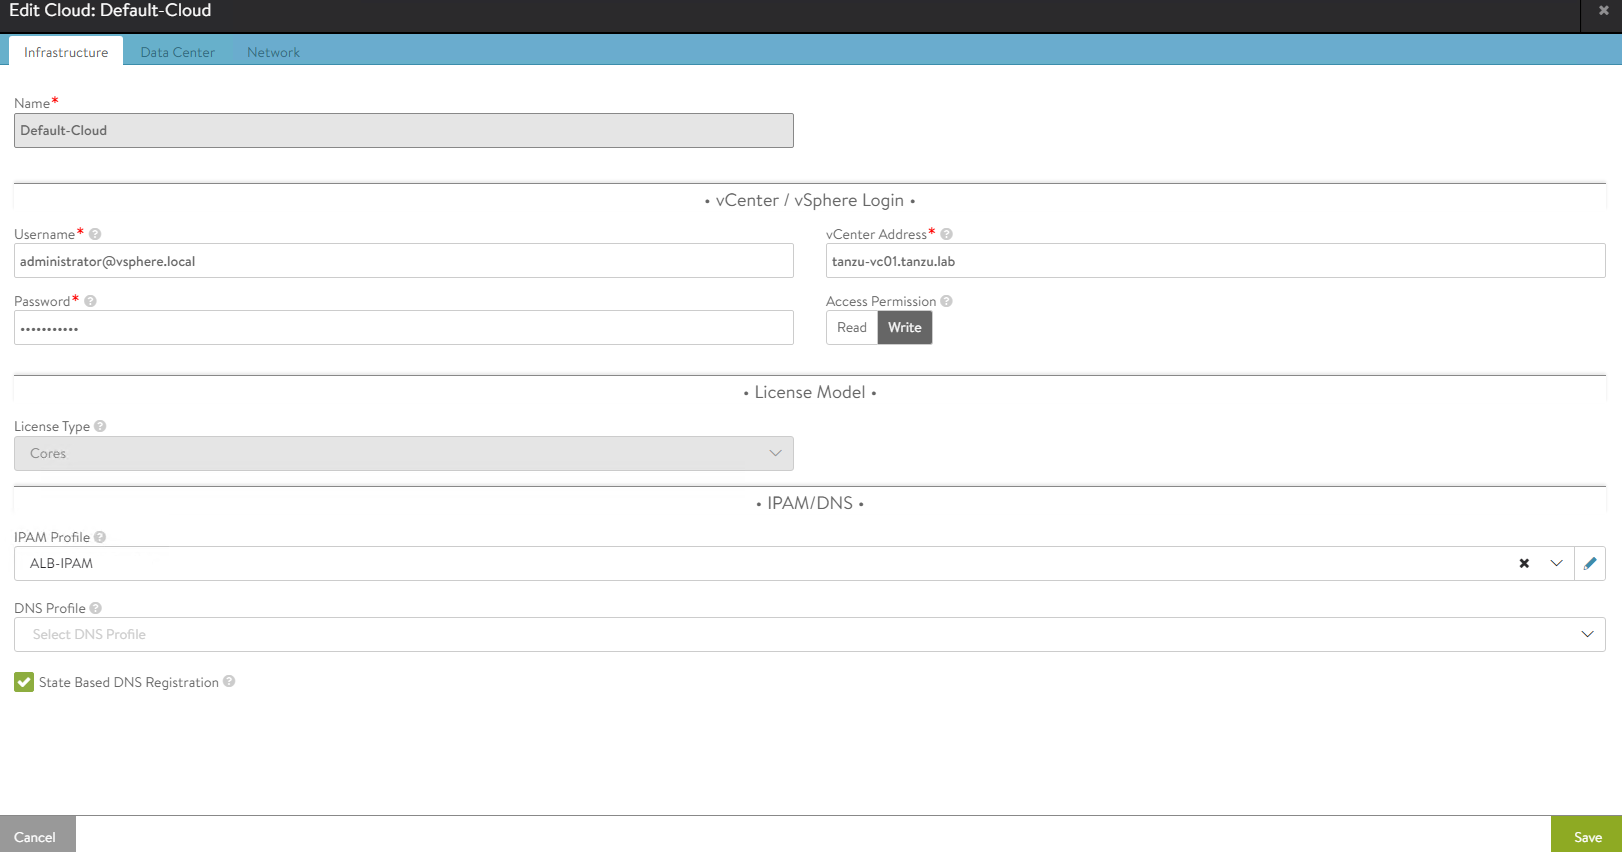
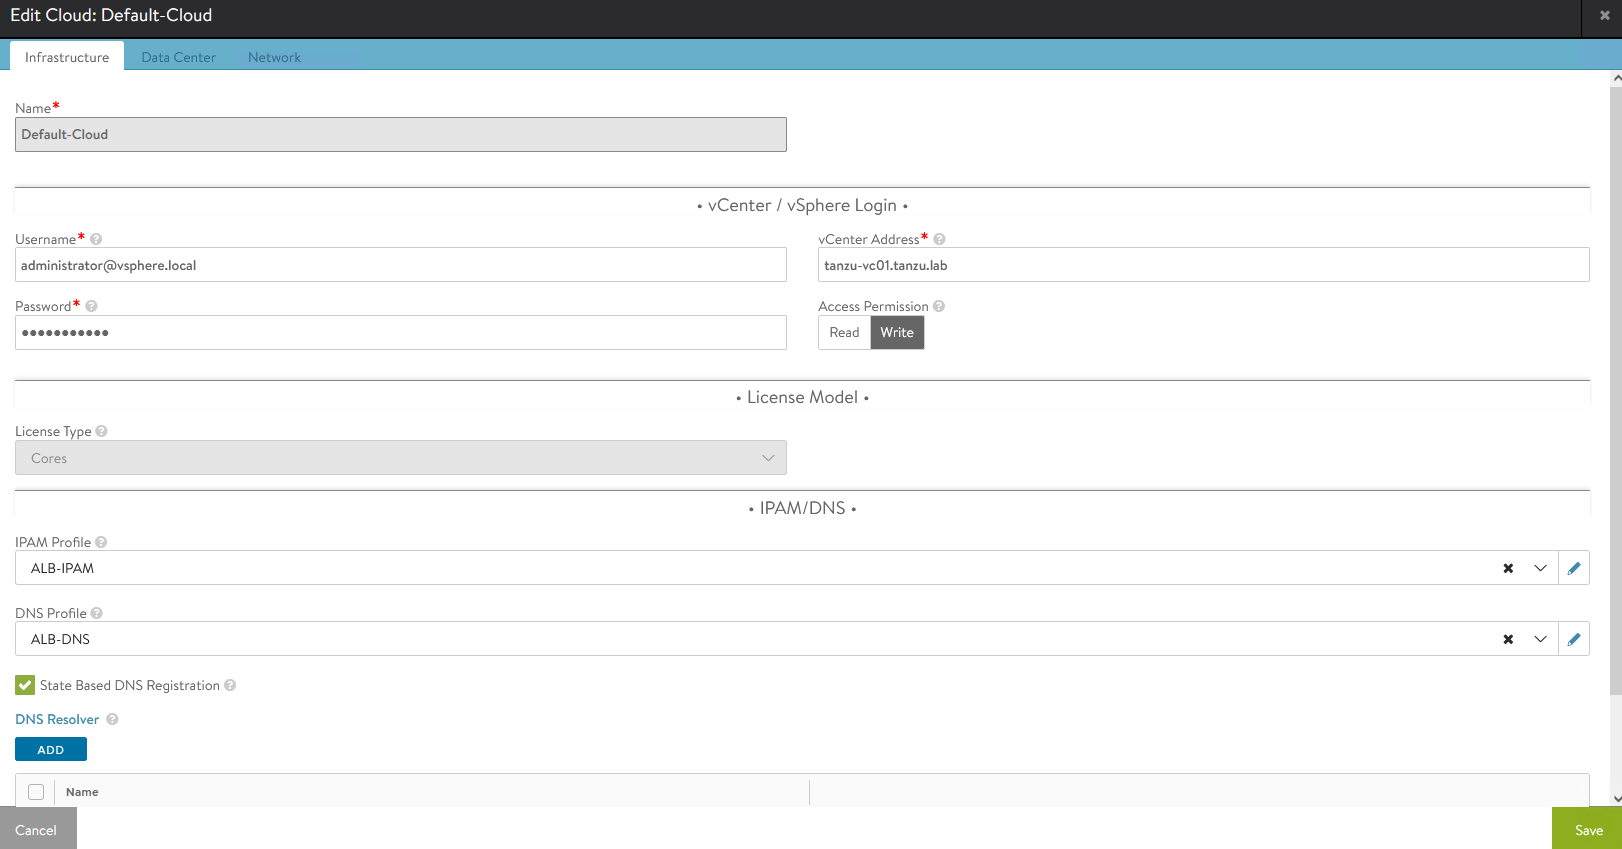
TKO on vSphere with Tanzu deploy Guide 2.0 (#212)
* Adding tko-vwt-dg 2.0

* Incorporated IX Team review

* removed vyos config from deploy guide

diff --git a/src/deployment-guides/tko-on-vsphere-with-tanzu.md b/src/deployment-guides/tko-on-vsphere-with-tanzu.md
@@ -85,12 +85,16 @@ For a production-grade deployment, VMware recommends deploying three instances o
 
 The following table provides a sample IP address and FQDN set for the NSX Advanced Load Balancer controllers:
 
-| Controller Node    | IP Address   | FQDN                   |
-| ------------------ | ------------ | ---------------------- |
+<!-- /* cSpell:disable */ -->
+
+| Controller Node    | IP Address  | FQDN            |
+| ------------------ | ------------| ----------------|
 | Node01 (Primary)   | 172.16.80.3 | alb01.tanzu.lab |
 | Node02 (Secondary) | 172.16.80.4 | alb02.tanzu.lab |
 | Node03 (Secondary) | 172.16.80.5 | alb03.tanzu.lab |
 | Controller Cluster | 172.16.80.2 | alb.tanzu.lab   |
+
+<!-- /* cSpell:enable */ -->
 
 ### Deploy NSX Advance Load Balancer Controller Node
 
@@ -140,7 +144,7 @@ On a browser, go to https://<https://<alb-ctlr01.tanzu.lab>/.
 
 5. Click on **Save** to finish the post-deployment configuration wizard.
 
-   If you did not select the **Setup Cloud After** option <_I don't see this option_> before saving, the initial configuration wizard exits. The Cloud configuration window does not automatically launch and you are directed to a Dashboard view on the controller.
+If you did not select the **Setup Cloud After** option before saving, the initial configuration wizard exits. The Cloud configuration window does not automatically launch and you are directed to a Dashboard view on the controller.
 
 ### Configure Default-Cloud
 
@@ -172,7 +176,7 @@ On a browser, go to https://<https://<alb-ctlr01.tanzu.lab>/.
 
     ![Screenshot of Data Center tab on Edit Cloud screen](img/tko-on-vsphere-with-tanzu/TKO-VWT09.png)
 
-1. Configure the **Network** settings as follows:
+11. Configure the **Network** settings as follows:
 
    - Select the NSX ALB **Management Network**. This network interface is used by the Service Engines to connect with the controller.
    - Leave the **Template Service Engine Group** empty.
@@ -187,7 +191,7 @@ On a browser, go to https://<https://<alb-ctlr01.tanzu.lab>/.
 
 ## Configure Licensing.
 
-  Tanzu for Kubernetes Operations requires an NSX Advanced Load Balancer Enterprise license. To configure licensing, navigate to the **Administration > Settings > Licensing** and apply the license key. If you have a license file instead of a license key, click the **Upload from Computer** link.
+Tanzu for Kubernetes Operations requires an NSX Advanced Load Balancer Enterprise license. To configure licensing, navigate to the **Administration > Settings > Licensing** and apply the license key. If you have a license file instead of a license key, click the **Upload from Computer** link.
 
   ![Screenshot of Licensing tab](img/tko-on-vsphere-with-tanzu/TKO-VWT12.png)
 
@@ -242,13 +246,12 @@ You are automatically logged out of the controller node you are currently logged
    ![Screenshot of Controller Initializing screen](img/tko-on-vsphere-with-tanzu/TKO-VWT18.png)
 
 The first controller of the cluster receives the "Leader" role. The second and third controllers will work as "Follower".
-<_The following image file is missing in the repo._>
 
-   ![](img/tko-on-vsphere-with-tanzu/TKO-VWT19.png)
+   ![Controller Role](img/tko-on-vsphere-with-tanzu/TKO-VWT19.png)
 
 After the controller cluster is deployed, use the controller cluster IP address for doing any additional configuration. Do not use the individual controller node IP address.
 
-For additional product documentation, see [Deploy a Controller Cluster](https://docs.vmware.com/en/VMware-vSphere/7.0/vmware-vsphere-with-tanzu/GUID-A51FAF35-D604-4883-A93D-58463B404C4E.html).
+  For additional product documentation, see [Deploy a Controller Cluster](https://docs.vmware.com/en/VMware-vSphere/7.0/vmware-vsphere-with-tanzu/GUID-A51FAF35-D604-4883-A93D-58463B404C4E.html).
 
 ### Change NSX Advanced Load Balancer Portal Default Certificate
 
@@ -280,7 +283,7 @@ To add a self-signed certificate:
 
 2. Click **Save**.
 
-    ![](img/tko-on-vsphere-with-tanzu/TKO-VWT21.png)
+    ![Controller New Certificate](img/tko-on-vsphere-with-tanzu/TKO-VWT21.png)
 
 3. Change the NSX Advanced Load Balancer portal certificate.
 
@@ -340,7 +343,7 @@ To configure the VIP network:
 
    ![Screenshot of Edit Network Settings screen](img/tko-on-vsphere-with-tanzu/TKO-VWT23.png)
 
-1. Click **Save** to close the VIP network configuration wizard.
+6. Click **Save** to close the VIP network configuration wizard.
 
 For more information, see the product documentation [Configure a Virtual IP Network](https://docs.vmware.com/en/VMware-vSphere/7.0/vmware-vsphere-with-tanzu/GUID-29ACB562-2E80-4C28-AE63-8EB9DAF1A67F.html).
 
@@ -366,13 +369,13 @@ To configure the default gateway:
 
 For additional product documentation, see [Configure Default Gateway](https://docs.vmware.com/en/VMware-vSphere/7.0/vmware-vsphere-with-tanzu/GUID-AB96BE48-D5B3-4B88-A92E-5A083472C56D.html)
 
-### Configure IPAM
+### Configure IPAM and DNS Profile
 
 IPAM is required to allocate virtual IP addresses when virtual services get created. Configure IPAM for the NSX Advanced Load Balancer controller and assign it to the Default-Cloud.
 
 1. Navigate to the **Templates > Profiles > IPAM/DNS Profiles**.
 
-1. Click **Create** and select **IPAM Profile** from the dropdown menu.
+2. Click **Create** and select **IPAM Profile** from the dropdown menu.
 
   ![Screenshot of the IPAM/DNS Profiles tab](img/tko-on-vsphere-with-tanzu/TKO-VWT26.png)
 
@@ -389,17 +392,26 @@ IPAM is required to allocate virtual IP addresses when virtual services get crea
 
    ![Screenshot of New IPAM/DNS Profile screen](img/tko-on-vsphere-with-tanzu/TKO-VWT27.png)
 
-1. Click **Save**.
+5. Click **Save**.
+ 
+6. Click on the Create button again and select DNS Profile
 
-1. Assign the IPAM profile to the Default-Cloud configuration.
+   - Provide a name for the profile.
+   - Add your domain name under **Domain Name**
+   - (Optionally) set the TTL for the domain.
+
+   ![DNS Profile](img/tko-on-vsphere-with-tanzu/TKO-VWT27-1.jpg)
+
+7. Assign the IPAM and DNS profile to the Default-Cloud configuration.
     - Navigate to the **Infrastructure > Cloud**
     - Edit the **Default-Cloud** configuration as follows:
        -  **IPAM Profile**: Select the newly created profile.
+       -  **DNS Profile**: Select the newly created profile.
     - Click **Save**
 
    ![Screenshot of Edit Cloud window](img/tko-on-vsphere-with-tanzu/TKO-VWT28.png)
 
-2. Verify that the status of the Default-Cloud configuration is green.
+8. Verify that the status of the Default-Cloud configuration is green.
 
 For additional product documentation, see [Configure IPAM](https://docs.vmware.com/en/VMware-vSphere/7.0/vmware-vsphere-with-tanzu/GUID-6ECC7035-BC0C-4197-A3DF-E92365A95A9F.html).
 
@@ -464,11 +476,11 @@ To deploy the Supervisor Cluster:
 
 7. Click **Next**.   
 
-8. On the **Workload Network** screen, select the network <_I don't see this option on the screenshot_> that will handle the networking traffic for Kubernetes workloads running on the Supervisor cluster.
+8. On the **Workload Network** screen, select the network that will handle the networking traffic for Kubernetes workloads running on the Supervisor cluster.
 
     - Set the **Network Mode**  to **DHCP** if the port group is configured for DHCP.
 
-     ![Screenshot of the Workload Network screen](img/tko-on-vsphere-with-tanzu/TKO-VWT35.png)
+   ![Screenshot of the Workload Network screen](img/tko-on-vsphere-with-tanzu/TKO-VWT35.png)
 
 9. Click **Next**.   
 
@@ -486,7 +498,7 @@ The Workload Management task takes approximately 30 minutes to complete. After t
 
 The Supervisor Cluster gets an IP address from the VIP network that you configured in the NSX Advanced Load Balancer. This IP address is also called the Control Plane HA IP address.
 
-![Screenshot of the Workload Clusters screen](img/tko-on-vsphere-with-tanzu/TKO-VWT38.png)
+   ![Screenshot of the Workload Clusters screen](img/tko-on-vsphere-with-tanzu/TKO-VWT38.png)
 
 In the backend, three supervisor Control Plane VMs are deployed in the vSphere namespace. A Virtual Service is created in the NSX Advanced Load Balancer with three Supervisor Control Plane nodes that are deployed in the process.
 
@@ -544,9 +556,7 @@ To create a new Supervisor namespace:
 
    **Note:** The **Name** field accepts only lower case letters and hyphens.
 
-1. Click **Create**.
-
-	The namespace is created on the Supervisor Cluster.
+6. Click **Create**. The namespace is created on the Supervisor Cluster.
 
    ![Screenshot of the Create Namespace screen](img/tko-on-vsphere-with-tanzu/TKO-VWT40.png)
 
@@ -608,128 +618,7 @@ To add a VM class to a namespace,
 
 The namespace is fully configured now. You are ready to register your supervisor cluster with Tanzu Mission Control and deploy your first Tanzu Kubernetes Cluster.
 
-## <a id=prepare-deploy-workload-cluster> </a> Prepare to Deploy Tanzu Kubernetes Clusters (Workload Cluster)
-
-Tanzu Kubernetes Clusters are created by invoking the Tanzu Kubernetes Grid Service declarative API using kubectl and a cluster specification defined using YAML. After you provision a cluster, you operate it and deploy workloads to it using kubectl.
-
-Before you construct a YAML file for Tanzu Kubernetes Cluster deployment, gather information such as virtual machine class bindings, storage class, and the available Tanzu Kubernetes release that can be used.
-
-You can gather this information by running the following commands:
-
-1. Connect to the Supervisor Cluster using vSphere Plugin for kubectl.
-
-   `kubectl vsphere login --server=<Supervisor Cluster Control Plane VIP> --vsphere-username USERNAME`
-
-1. Switch context to the vSphere Namespace where you plan to provision the Tanzu Kubernetes cluster.
-
-   `kubectl config get-contexts`
-
-   `kubectl config use-context <vSphere-Namespace>`
-
-   Example: **kubectl config use-context prod**
-
-1. List the available virtual machine class bindings
-
-   `kubectl get virtualmachineclassbindings`
-
-   The output of the command list all VM class bindings that are available in the vSphere Namespace where you are deploying the Tanzu Kubernetes Cluster.
-
-   ![](./img/tko-on-vsphere-with-tanzu/image20.jpg)
-
-1. List the available storage class in the namespace.
-
-   `kubectl get storageclass`
-
-   The output of the command list all storage classes that are available in the vSphere Namespace.
-
-   ![](./img/tko-on-vsphere-with-tanzu/image50.jpg)
-
-1. List the available Tanzu Kubernetes releases (TKR)
-
-   `kubectl get tanzukubernetesreleases`
-
-   The command's output lists the TKR versions that are available in the vSphere Namespace. You can only deploy Tanzu Kubernetes Cluster with TKR versions that have compatible=true.
-
-   ![](./img/tko-on-vsphere-with-tanzu/image52.jpg)
-
-1. Construct the YAML file for provisioning a Tanzu Kubernetes cluster.
-
-  Tanzu Kubernetes Clusters can be deployed using Tanzu Kubernetes Grid Service API. There are 2 versions of the API that you can use:
-
-   - [Tanzu Kubernetes Grid Service v1alpha2 API](https://docs.vmware.com/en/VMware-vSphere/7.0/vmware-vsphere-with-tanzu/GUID-0CA8BF39-0D7E-4335-9D5B-7C80ED90D4D8.html)
-   - [Tanzu Kubernetes Grid Service v1alpha1 API](https://docs.vmware.com/en/VMware-vSphere/7.0/vmware-vsphere-with-tanzu/GUID-BD132505-263E-40CF-82D4-B759C491AD23.html)
-
-   This documentation makes use of v1alpha2 API to provision the Tanzu Kubernetes Clusters.
-
-   The following example YAML is the minimal configuration required to provision a Tanzu Kubernetes cluster.
-
-   ```yaml
-  apiVersion: run.tanzu.vmware.com/v1alpha2
-  kind: TanzuKubernetesCluster
-  metadata:
-    name: prod-1
-    namespace: prod
-  spec:
-    topology:
-      controlPlane:
-        replicas: 3
-        vmClass: best-effort-large # or the VM class binding you'd like to use.
-        storageClass: vsan-default-storage-policy # or the storage class you'd like to use.
-        tkr:
-          reference:
-          name: v1.21.2---vmware.1-tkg.1.ee25d55
-      nodePools:
-       - name: worker-pool01
-         replicas: 6
-         vmClass: best-effort-large # or the VM class binding you'd like to use.
-         storageClass: vsan-default-storage-policy # or the storage class you'd like to use.
-         tkr:
-           reference:
-             name: v1.21.2---vmware.1-tkg.1.ee25d55
-  ```
-
-  > ⚠  If you receive `this request is invalid` after applying this YAML with
-  > `kubectl apply`, ensure that your TKr release, virtual machine class, and
-  > storage class are valid.
-
-  > ⚠  If you receive `this request is invalid` after applying this YAML with
-  > `kubectl apply`, ensure that your TKr release, virtual machine class, and
-  > storage class are valid.
-
-## <a id=deploy-workload-cluster> </a>Deploy Tanzu Kubernetes Clusters (Workload Cluster)
-1. Customize the cluster as needed by referring to the full list of [cluster configuration parameters](https://docs.vmware.com/en/VMware-vSphere/7.0/vmware-vsphere-with-tanzu/GUID-31BF8166-5FC8-4D43-933D-5797F3BE4A36.html)
-
-1. To deploy the cluster, run the command:
-
-   `kubectl apply -f <name>.yaml`
-
-1. Monitor the deployment of cluster using the command:
-
-   `kubectl get tanzukubernetesclusters`
-
-   Sample result:
-
-   ![](./img/tko-on-vsphere-with-tanzu/image73.jpg)
-
-   You can also review the status of the cluster from vSphere Client by clicking on the namespace where the cluster is deployed and navigating to **Compute > VMware Resources > Tanzu Kubernetes Clusters**.
-
-   ![](./img/tko-on-vsphere-with-tanzu/image26.jpg)
-
-   The **Virtual Machines** tab displays the list of the control plane and worker nodes that are deployed during the cluster creation.
-
-   ![](./img/tko-on-vsphere-with-tanzu/image10.jpg)
-
-   For the Control-Plane HA, a virtual service is created in NSX Advanced Load Balancer with the pool members as the three control plane nodes that got deployed during the cluster creation.
-
-   ![](./img/tko-on-vsphere-with-tanzu/image33.jpg)
-
-For additional product documentation, see [Configuring and Managing vSphere Namespaces](https://docs.vmware.com/en/VMware-vSphere/7.0/vmware-vsphere-with-tanzu/GUID-1544C9FE-0B23-434E-B823-C59EFC2F7309.html).   
-
-## <a id=integrate-saas> </a> Integrate Tanzu Kubernetes Clusters with SaaS Endpoints
-
-By integrating Supervisor Cluster and Tanzu Kubernetes Clusters with Tanzu Mission Control (TMC) you are provided a centralized administrative interface that enables you to manage your global portfolio of Kubernetes clusters.
-
-### Tanzu Mission Control
+## <a id=integrate-supervisor-tmc> </a> **Register Supervisor Cluster with Tanzu Mission Control**
 
 Tanzu Mission Control is a centralized management platform for consistently operating and securing your Kubernetes infrastructure and modern applications across multiple teams and clouds.
 
@@ -797,6 +686,14 @@ For additional product documentation, see [Integrate the Tanzu Kubernetes Grid S
 
 After Supervisor Cluster is registered with Tanzu Mission Control, deployment of the Tanzu Kubernetes clusters can be done in just a few clicks. The procedure for creating Tanzu Kubernetes clusters is shown below.
 
+Tanzu Kubernetes Clusters come with a `vmware-system-privileged`
+`PodSecurityPolicy` (PSP) that prevents `Pod`s from being scheduled except by service
+accounts that are bound to this PSP by way of a namespaced `RoleBinding` or a
+cluster-wide `ClusterRoleBinding`. Tanzu Mission Control allows you to create
+service accounts for packages installed through it. However, because these
+accounts are not bound to this PSP, `Pod`s provisioned by these packages never
+get scheduled, causing TMC to time out during the installation.
+
 Step 1: Navigate to the **Clusters** tab and click **Create Cluster**.
 
 ![Screenshot of Step 1: Creating a cluster](img/tko-on-vsphere-with-tanzu/TKO-VWT56.png)
@@ -804,7 +701,6 @@ Step 1: Navigate to the **Clusters** tab and click **Create Cluster**.
   1. Under the **Create cluster** page, select the Supervisor cluster that you registered in the previous step and click on Continue to create cluster.
 
 ![Screenshot of Create cluster screen](img/tko-on-vsphere-with-tanzu/TKO-VWT57.png)
-<_I changed the following because the steps in the document should correspond to the screenshots_>
 
 2. Select the provisioner for creating the workload cluster. Provisioner reflects the vSphere namespaces that you have created and associated with the Supervisor cluster.
 
@@ -853,29 +749,23 @@ Step 5: Edit and add node pools.
 
 ![Step 5: Edit and add node pools](img/tko-on-vsphere-with-tanzu/TKO-VWT62.png)
 
-Tanzu Kubernetes Clusters come with a `vmware-system-privileged`
-`PodSecurityPolicy` (PSP) that prevents `Pod`s from being scheduled except by service
-accounts that are bound to this PSP by way of a namespaced `RoleBinding` or a
-cluster-wide `ClusterRoleBinding`. Tanzu Mission Control allows you to create
-service accounts for packages installed through it. However, because these
-accounts are not bound to this PSP, `Pod`s provisioned by these packages never
-get scheduled, causing TMC to time out during the installation.
+Cluster creation roughly takes 15-20 minutes to complete. After the cluster deployment completes, ensure that Agent and extensions health shows green.
 
 ![Health screen for agent and extensions](img/tko-on-vsphere-with-tanzu/TKO-VWT63.png)
-
-## <a id=integrate-to> </a> Integrate Tanzu Kubernetes clusters with Tanzu Observability
-
-For instructions on enabling Tanzu Observability on your workload cluster, please see [Set up Tanzu Observability to Monitor a Tanzu Kubernetes Clusters](./tko-saas-services.md#set-up-tanzu-observability-to-monitor-a-tanzu-kubernetes-clusters)
 
 ## <a id=integrate-tsm> </a> Integrate Tanzu Kubernetes clusters with Tanzu Service Mesh
 
 For instructions on installing Tanzu Service Mesh on your workload cluster, please see [Onboard a Tanzu Kubernetes Cluster to Tanzu Service Mesh](./tko-saas-services.md#onboard-a-tanzu-kubernetes-cluster-to-tanzu-service-mesh)
 
+## <a id=integrate-to> </a> Integrate Tanzu Kubernetes clusters with Tanzu Observability
+
+For instructions on enabling Tanzu Observability on your workload cluster, please see [Set up Tanzu Observability to Monitor a Tanzu Kubernetes Clusters](./tko-saas-services.md#set-up-tanzu-observability-to-monitor-a-tanzu-kubernetes-clusters)
+
 ## <a id=deploy-user-managed-packages> </a> Deploy User-Managed Packages on Tanzu Kubernetes clusters
 
 <!--- For instructions on installing user-Managed packages on the Tanzu Kubernetes clusters, please see []() -->
 
-## **Self-Service Namespace in vSphere with Tanzu**
+## Self-Service Namespace in vSphere with Tanzu
 
 Typically creating and configuring vSphere namespaces (permissions, limits, etc.) is a task performed by a vSphere Administrator. But this model doesn’t allow flexibility in a DevOps model. Every time a developer/cluster-admin needs a new namespace for deploying Kubernetes clusters, the task of creating a namespace has to be completed by the vSphere Administrator. Only after permissions, authentication, etc. are configured for the namespace can be consumed.
 
